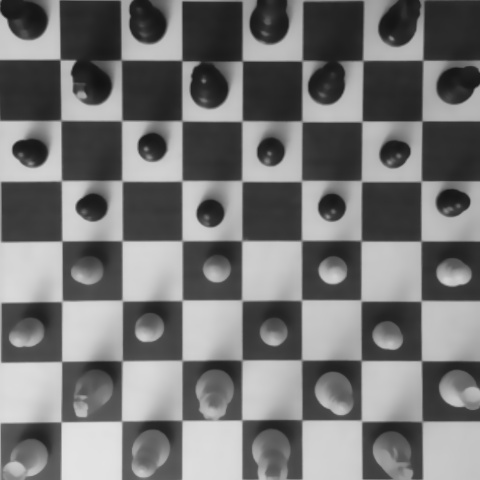
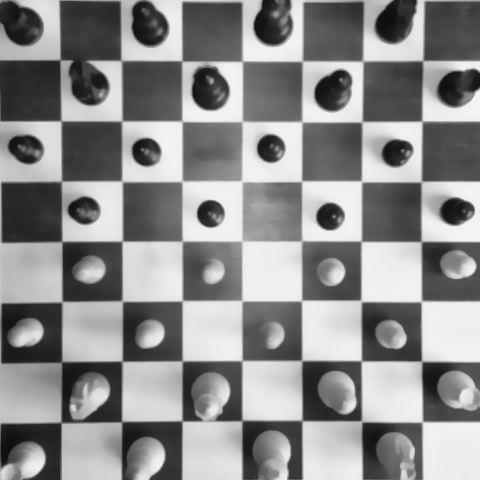
Ajout de la fermeture des contours avec HUll

diff --git a/vision/ChessCamera.py b/vision/ChessCamera.py
@@ -133,10 +133,10 @@ class ChessCamera(object):
         current = self.current_board_frame()
 
         current.img = cv2.cvtColor(current.img, cv2.COLOR_BGR2GRAY)
-        #current.img = cv2.bilateralFilter(current.img, CANNY_BLUR, 17, 17)
-        clahe = cv2.createCLAHE(clipLimit=4.0, tileGridSize=(8,8))
+        current.img = cv2.bilateralFilter(current.img, CANNY_BLUR, 17, 17)
+        clahe = cv2.createCLAHE(clipLimit=4.0, tileGridSize=(10,10))
         #current.img = clahe.apply(current.img)
-        #current.img = cv2.equalizeHist(current.img)
+        current.img = cv2.equalizeHist(current.img)
 
         if DEBUG : cv2.imwrite("output/edged.jpg", edged.img)
 
@@ -180,7 +180,7 @@ class ChessCamera(object):
         kernel_sharpen = np.array([[0,-1,0], [-1,5,-1], [0,-1,0]])
         clahe = cv2.createCLAHE(clipLimit=CLAHE_LIMIT, tileGridSize=(CLAHE_GRID,CLAHE_GRID))
 
-        #img = clahe.apply(img)
+        img = clahe.apply(img)
 
         #img = cv2.normalize(img, img, alpha=10, beta=150, norm_type=cv2.NORM_MINMAX)
         img = cv2.bilateralFilter(img, CANNY_BLUR, 17, 17)
@@ -190,15 +190,15 @@ class ChessCamera(object):
 
         if DEBUG : cv2.imwrite("output/gray.jpg", img)
 
-        edged = cv2.Canny(img, CANNY_LOWER, CANNY_UPPER)
-        #edged = self.auto_canny(img, CANNY_SIGMA)
+        #edged = cv2.Canny(img, CANNY_LOWER, CANNY_UPPER)
+        edged = self.auto_canny(img, CANNY_SIGMA)
 
         kernel_dilate = cv2.getStructuringElement(cv2.MORPH_RECT,(EDGE_DILATE,EDGE_DILATE))
         kernel_erode = cv2.getStructuringElement(cv2.MORPH_RECT,(EDGE_ERODE,EDGE_ERODE))
-        edged = cv2.dilate(edged, kernel_dilate)
-        edged = cv2.erode(edged, kernel_erode)
-        #edged = cv2.dilate(edged, None)
-        #edged = cv2.erode(edged, None)
+        #edged = cv2.dilate(edged, kernel_dilate)
+        #edged = cv2.erode(edged, kernel_erode)
+        edged = cv2.dilate(edged, None)
+        edged = cv2.erode(edged, None)
         return edged
 
     def mask(self, img, edges):
@@ -216,7 +216,8 @@ class ChessCamera(object):
         img = cv2.cvtColor(img, cv2.COLOR_GRAY2BGR)
 
         mask = np.zeros(edges.shape)
-        cv2.fillConvexPoly(mask, max_contour, (255))
+        hull = cv2.convexHull(max_contour)
+        cv2.fillConvexPoly(mask, hull, (255))
 
         #-- Smooth mask, then blur it --------------------------------------------------------
         mask = cv2.dilate(mask, None, iterations=MASK_DILATE_ITER)
@@ -232,7 +233,7 @@ class ChessCamera(object):
         masked = (masked * 255).astype('uint8')                     # Convert back to 8-bit
 
         if MASK_DRAW:
-            masked_draw = cv2.drawContours(masked.copy(), [max_contour], 0, (0,255,0), 2, cv2.LINE_AA, maxLevel=1)
+            masked_draw = cv2.drawContours(masked.copy(), [hull], 0, (0,255,0), 2, cv2.LINE_AA, maxLevel=1)
         else: masked_draw = None
 
         return masked, masked_draw

diff --git a/vision/constants.py b/vision/constants.py
@@ -1,5 +1,5 @@
 DEBUG = True
-RUN_ON_PI = True
+RUN_ON_PI = False
 
 # BOARD CONSTANTS
 SQUARE_SIZE = 60
@@ -12,9 +12,9 @@ CAMERA_COMP = 20
 RESCALE_RATIO = 1.015
 
 CANNY_SIGMA = 0.8
-CANNY_LOWER = 20
+CANNY_LOWER = 80
 CANNY_UPPER = 200
-CANNY_BLUR = 11
+CANNY_BLUR = 13
 CANNY_GAMMA = 1
 
 CLAHE_LIMIT = 1.0
@@ -23,13 +23,13 @@ CLAHE_GRID = 8
 EDGE_DILATE = 6
 EDGE_ERODE = 6
 
-MASK_DRAW = True
-MASK_BLUR = 9
+MASK_DRAW = False
+MASK_BLUR = 11
 MASK_DILATE = 9
-MASK_DILATE_ITER = 3
-MASK_ERODE_ITER = 4
+MASK_DILATE_ITER = 1
+MASK_ERODE_ITER = 3
 MASK_COLOR = (0,0,0)
 
-THRESHOLD_PRESENCE = 100
+THRESHOLD_PRESENCE = 80
 THRESHOLD_COLOR = 100
 THRESHOLD_BINARY = 100
